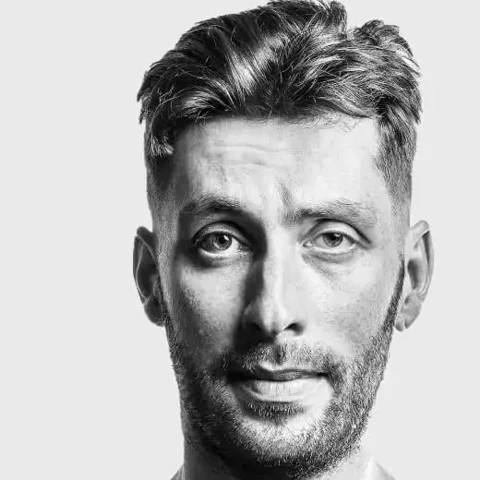
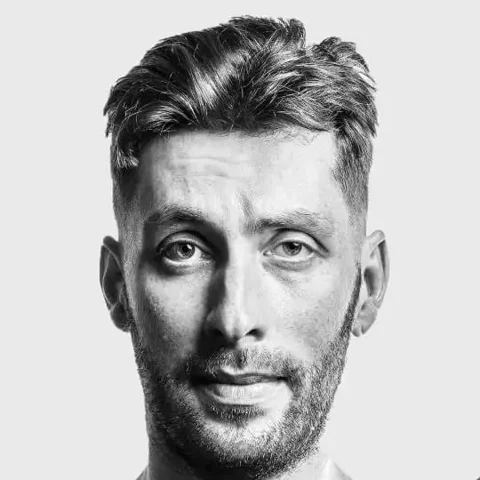
Страна Света: три ролика 16:9 справа от задачи, серая плашка с роликом об Устье, портрет по центру, правки текста

diff --git a/works/strana-sveta/index.html b/works/strana-sveta/index.html
@@ -23,7 +23,7 @@
   <meta property="og:image:alt" content="Фасад со словом «Устье» в стиле глиняной игрушки">
   <meta name="twitter:card" content="summary_large_image">
   <link rel="stylesheet" href="../../fresh/fresh.css?v=1120e">
-  <link rel="stylesheet" href="../../fresh/v2.css?v=102">
+  <link rel="stylesheet" href="../../fresh/v2.css?v=105">
   <link rel="stylesheet" href="../../fresh/case.css?v=1120e">
   <script>
     document.documentElement.classList.add('js');
@@ -72,7 +72,7 @@
       <aside class="case-aside" style="--rows: 9">
         <div class="case-aside__in">
           <h2 class="case-label case-aside__label">О&nbsp;проекте</h2>
-          <p class="case-aside__meta"><span>Мы&nbsp;заняли третье место</span><span>Конкурс современного медиаискусства «Страна Света» при&nbsp;поддержке ПФКИ проходил на&nbsp;Дворцовой площади в&nbsp;Санкт-Петербурге в&nbsp;декабре 2025&nbsp;года</span><span>Дом шириной больше ста метров</span></p>
+          <p class="case-aside__meta"><span>Конкурс современного медиаискусства «Страна Света» при&nbsp;поддержке ПФКИ проходил на&nbsp;Дворцовой площади в&nbsp;Санкт-Петербурге в&nbsp;декабре 2025&nbsp;года</span><span>Мы&nbsp;заняли третье место</span></p>
           <h2 class="case-label case-aside__label">Что сделали</h2>
           <ul class="case-aside__done">
             <li>Сценарий</li>
@@ -93,16 +93,32 @@
         <p>Рассказ из&nbsp;пяти частей о&nbsp;легендах Устья, стилизованный под&nbsp;вологодскую глиняную игрушку. Кадры и&nbsp;анимацию делали с&nbsp;нейросетями, а&nbsp;собирали и&nbsp;доводили вручную.</p>
       </div>
 
-      <figure class="case-review reveal">
-        <button class="case-review__btn" type="button" data-video="../../Video/strana-sveta-making.mp4" data-title="Как мы делали мэппинг «Устьянские легенды»" aria-label="Смотреть, как делали, 7:10">
-          <img src="media/making-cover.webp" alt="" width="1080" height="360" loading="lazy">
-          <span class="case-review__play" aria-hidden="true"><svg viewBox="0 0 16 16"><path d="M5 2.5 13.5 8 5 13.5z"/></svg></span>
-        </button>
-        <figcaption class="case-review__cap">Как делали&nbsp;· 7:10</figcaption>
-      </figure>
+      <div class="case-review case-reviews reveal">
+        <figure class="case-reviews__item">
+          <button class="case-review__btn" type="button" data-video="../../Video/strana-sveta-making.mp4" data-title="Как мы делали мэппинг «Устьянские легенды»" aria-label="Как делали, 7:10">
+            <img src="media/cover-making.webp" alt="" width="1280" height="720" loading="lazy">
+            <span class="case-review__play" aria-hidden="true"><svg viewBox="0 0 16 16"><path d="M5 2.5 13.5 8 5 13.5z"/></svg></span>
+          </button>
+          <figcaption class="case-review__cap">Как делали&nbsp;· 7:10</figcaption>
+        </figure>
+        <figure class="case-reviews__item">
+          <button class="case-review__btn" type="button" data-video="../../Video/strana-sveta-artyom.mp4" data-title="Артем Петрович о проекте «Устьянские легенды»" aria-label="Артем о проекте, 1:12">
+            <img src="media/cover-artyom.webp" alt="" width="1280" height="720" loading="lazy">
+            <span class="case-review__play" aria-hidden="true"><svg viewBox="0 0 16 16"><path d="M5 2.5 13.5 8 5 13.5z"/></svg></span>
+          </button>
+          <figcaption class="case-review__cap">Артем о проекте&nbsp;· 1:12</figcaption>
+        </figure>
+        <figure class="case-reviews__item">
+          <button class="case-review__btn" type="button" data-video="../../Video/strana-sveta-arseny.mp4" data-title="Арсений Петрович о проекте «Устьянские легенды»" aria-label="Арсений о проекте, 0:30">
+            <img src="media/cover-arseny.webp" alt="" width="1280" height="720" loading="lazy">
+            <span class="case-review__play" aria-hidden="true"><svg viewBox="0 0 16 16"><path d="M5 2.5 13.5 8 5 13.5z"/></svg></span>
+          </button>
+          <figcaption class="case-review__cap">Арсений о проекте&nbsp;· 0:30</figcaption>
+        </figure>
+      </div>
 
       <p class="case-main case-lead reveal">Почему Устье</p>
-      <p class="case-main case-p reveal">Летом Артем почти месяц жил&nbsp;в&nbsp;Устье у&nbsp;друга: ходили под&nbsp;парусом по&nbsp;Кубенскому озеру, ездили по&nbsp;заброшенным деревням. Прямо оттуда написал организаторам и&nbsp;попросил поменять тему мэппинга с&nbsp;Белого моря на&nbsp;Устье. Перед отъездом зашел в&nbsp;местную библиотеку, там&nbsp;посоветовали книги про&nbsp;село. Из&nbsp;них&nbsp;и&nbsp;собрали сценарий.</p>
+      <p class="case-main case-p reveal">Сначала мы&nbsp;заявили на&nbsp;конкурс мэппинг про&nbsp;Белое море. Но&nbsp;летом Артем почти месяц жил&nbsp;в&nbsp;Устье у&nbsp;друга: ходили под&nbsp;парусом по&nbsp;Кубенскому озеру, ездили по&nbsp;заброшенным деревням. Прямо оттуда написал организаторам и&nbsp;попросил поменять тему на&nbsp;Устье. Перед отъездом зашел в&nbsp;местную библиотеку, там&nbsp;посоветовали книги про&nbsp;село. Из&nbsp;них&nbsp;и&nbsp;собрали сценарий.</p>
       <figure class="case-wide reveal">
         <img src="media/mk-air.webp" alt="Устье с высоты: храм на берегу Кубенского озера" width="1920" height="1000" loading="lazy">
       </figure>
@@ -128,12 +144,11 @@
         <img src="media/mk-keyframes.webp" alt="Ключевые кадры желтого фасада по порядку" width="1076" height="756" loading="lazy">
       </figure>
       <figure class="case-pair-block reveal">
-        <h2 class="case-label">Ролик для&nbsp;конкурса</h2>
         <div class="case-pair">
           <video src="media/ustye-vertical.mp4" poster="media/ustye-vertical.webp" autoplay muted loop playsinline preload="none" aria-label="Ролик про Устье: стела, дом Никуличева, набережная Кубенского озера"></video>
           <img src="media/mk-bike.webp" alt="Кадр из ролика: улица в Устье, велосипедист на пенни-фартинге" width="1920" height="1080" loading="lazy">
         </div>
-        <figcaption class="case-pair__cap">По&nbsp;правилам конкурса к&nbsp;мэппингу нужен ролик о&nbsp;месте или о&nbsp;том, как&nbsp;мы&nbsp;работаем. Мы&nbsp;сняли ролик об&nbsp;Устье: слева он целиком, справа кадр из&nbsp;него.</figcaption>
+        <figcaption class="case-pair__cap">Ролик об&nbsp;Устье. По&nbsp;правилам конкурса нужно было снять ролик о&nbsp;месте, про&nbsp;которое мы&nbsp;делаем мэппинг</figcaption>
       </figure>
       <p class="case-main case-lead reveal">Сборка</p>
       <p class="case-main case-p reveal">Сложный технический моушн нейросети осенью 2025 года не&nbsp;умели. Но&nbsp;в&nbsp;мэппинге камера неподвижна, поэтому ролик можно склеить из&nbsp;разных генераций и&nbsp;подобрать порядок и&nbsp;тайминги. Все&nbsp;собирали в&nbsp;After Effects: маски, ротобраш, несколько дней работы на&nbsp;каждые 20 секунд. Потом апскейл в&nbsp;Topaz и&nbsp;перевод в&nbsp;финальный формат.</p>
@@ -154,7 +169,6 @@
       <figure class="case-wide reveal">
         <img src="media/mk-tv.webp" alt="Артем и Арсений Пе́тровичи в сюжете Первого канала на Дворцовой площади" width="1920" height="1080" loading="lazy">
       </figure>
-      <div class="case-main case-buttons reveal"><button class="card__review reveal" type="button" data-video="../../Video/strana-sveta-making.mp4" data-title="Как мы делали мэппинг «Устьянские легенды»"><i class="card__play" aria-hidden="true"><svg viewBox="0 0 16 16"><path d="M5 2.5 13.5 8 5 13.5z"/></svg></i><span>Как делали&nbsp;· 7:10</span></button><button class="card__review reveal" type="button" data-video="../../Video/strana-sveta-artyom.mp4" data-title="Артем Петрович о проекте «Устьянские легенды»"><i class="card__play" aria-hidden="true"><svg viewBox="0 0 16 16"><path d="M5 2.5 13.5 8 5 13.5z"/></svg></i><span>Артем о проекте&nbsp;· 1:12</span></button><button class="card__review reveal" type="button" data-video="../../Video/strana-sveta-arseny.mp4" data-title="Арсений Петрович о проекте «Устьянские легенды»"><i class="card__play" aria-hidden="true"><svg viewBox="0 0 16 16"><path d="M5 2.5 13.5 8 5 13.5z"/></svg></i><span>Арсений о проекте&nbsp;· 0:30</span></button></div>
     </div>
 
     <section class="case-offer">

diff --git a/fresh/v2.css b/fresh/v2.css
@@ -593,10 +593,24 @@ a.card__media { display: block; }
 .case-pair video, .case-pair img { display: block; width: 100%; height: 100%; aspect-ratio: 9 / 16; object-fit: cover; border-radius: var(--radius); background: var(--line); }
 .case-pair img { aspect-ratio: auto; }
 /* Кейс: отдельный блок с подписью (ролик для конкурса): рамка, заголовок, пара, подпись */
-.case-grid .case-pair-block { grid-column: 4 / 13; margin: 0; padding: 24px; border: 1px solid var(--line); border-radius: var(--radius); }
+.case-grid .case-pair-block { grid-column: 4 / 13; margin: 0; padding: 24px; border-radius: var(--radius); background: rgba(127, 127, 127, .1); }
 .case-pair-block .case-label { margin: 0 0 16px; }
 .case-pair-block .case-pair { grid-column: auto; }
 .case-pair__cap { margin: 16px 0 0; max-width: 46em; font-size: 15px; line-height: 1.45; opacity: .75; }
+/* Кейс: несколько роликов столбиком справа от задачи (как делали, интервью); на телефоне интервью парой */
+.case-reviews { display: flex; flex-direction: column; gap: 24px; }
+.case-grid .case-reviews { grid-row: 1 / span 3; } /* столбик длиннее задачи: рядом встают и «Почему Устье» с абзацем */
+@media (max-width: 900px) { .case-grid .case-reviews { grid-row: auto; } }
+.case-reviews__item { margin: 0; }
+.case-reviews .case-review__play { width: 52px; height: 52px; top: auto; left: auto; right: 12px; bottom: 12px; transform: none; } /* кнопка в углу, лицо видно */
+.case-reviews .case-review__btn:hover .case-review__play { transform: scale(1.12); }
+@media (max-width: 600px) {
+  .case-reviews { display: grid; grid-template-columns: 1fr 1fr; gap: 20px 12px; }
+  .case-reviews__item:first-child { grid-column: 1 / -1; }
+  .case-reviews__item:not(:first-child) .case-review__btn { width: 100%; margin-inline: 0; border-radius: var(--radius); }
+  .case-reviews__item:not(:first-child) .case-review__cap { font-size: 14px; }
+}
+
 /* Кейс: ряд кнопок с видео (как делали, интервью) */
 .case-grid .case-buttons { grid-column: 4 / 13; display: flex; flex-wrap: wrap; gap: 14px 40px; }
 .case-buttons .card__review { margin-top: 0; }

diff --git a/works/khakasia/stol/index.html b/works/khakasia/stol/index.html
@@ -30,7 +30,7 @@
   <meta name="twitter:card" content="summary_large_image">
   <link rel="preload" as="image" href="../../../cases/khakasia/media/interaktivnyj-stol-khakasiya.webp" imagesrcset="../../../cases/khakasia/media/interaktivnyj-stol-khakasiya-960.webp 960w, ../../../cases/khakasia/media/interaktivnyj-stol-khakasiya.webp 1920w" imagesizes="100vw">
   <link rel="stylesheet" href="../../../fresh/fresh.css?v=1120e">
-  <link rel="stylesheet" href="../../../fresh/v2.css?v=102">
+  <link rel="stylesheet" href="../../../fresh/v2.css?v=105">
   <link rel="stylesheet" href="../../../fresh/case.css?v=1120e">
   <script>
     document.documentElement.classList.add('js');

diff --git a/cases/gorodobrazovaniya/index.html b/cases/gorodobrazovaniya/index.html
@@ -23,7 +23,7 @@
   <meta property="og:image:alt" content="Видео и интерактивное расписание для форума «Город образования» — изображение проекта">
   <meta name="twitter:card" content="summary_large_image">
   <link rel="stylesheet" href="../../fresh/fresh.css?v=1120e">
-  <link rel="stylesheet" href="../../fresh/v2.css?v=102">
+  <link rel="stylesheet" href="../../fresh/v2.css?v=105">
   <link rel="stylesheet" href="../../fresh/case.css?v=1120e">
   <script>
     document.documentElement.classList.add('js');

diff --git a/cases/rosatom/index.html b/cases/rosatom/index.html
@@ -23,7 +23,7 @@
   <meta property="og:image:alt" content="Анимационный ролик для конкурса «Миллион Росатома» — изображение проекта">
   <meta name="twitter:card" content="summary_large_image">
   <link rel="stylesheet" href="../../fresh/fresh.css?v=1120e">
-  <link rel="stylesheet" href="../../fresh/v2.css?v=102">
+  <link rel="stylesheet" href="../../fresh/v2.css?v=105">
   <link rel="stylesheet" href="../../fresh/case.css?v=1120e">
   <script>
     document.documentElement.classList.add('js');

diff --git a/cases/yantarny/index.html b/cases/yantarny/index.html
@@ -23,7 +23,7 @@
   <meta property="og:image:alt" content="Видео для комнаты виртуальной реальности на AmberForum — изображение проекта">
   <meta name="twitter:card" content="summary_large_image">
   <link rel="stylesheet" href="../../fresh/fresh.css?v=1120e">
-  <link rel="stylesheet" href="../../fresh/v2.css?v=102">
+  <link rel="stylesheet" href="../../fresh/v2.css?v=105">
   <link rel="stylesheet" href="../../fresh/case.css?v=1120e">
   <script>
     document.documentElement.classList.add('js');

diff --git a/cases/premiarb/index.html b/cases/premiarb/index.html
@@ -23,7 +23,7 @@
   <meta property="og:image:alt" content="Графика для трех экранов на церемонии Премии РБ — изображение проекта">
   <meta name="twitter:card" content="summary_large_image">
   <link rel="stylesheet" href="../../fresh/fresh.css?v=1120e">
-  <link rel="stylesheet" href="../../fresh/v2.css?v=102">
+  <link rel="stylesheet" href="../../fresh/v2.css?v=105">
   <link rel="stylesheet" href="../../fresh/case.css?v=1120e">
   <script>
     document.documentElement.classList.add('js');

diff --git a/cases/hbo/index.html b/cases/hbo/index.html
@@ -23,7 +23,7 @@
   <meta property="og:image:alt" content="3D-заставка к сериалу «Игры Уолл-стрит» на HBO Max — изображение проекта">
   <meta name="twitter:card" content="summary_large_image">
   <link rel="stylesheet" href="../../fresh/fresh.css?v=1120e">
-  <link rel="stylesheet" href="../../fresh/v2.css?v=102">
+  <link rel="stylesheet" href="../../fresh/v2.css?v=105">
   <link rel="stylesheet" href="../../fresh/case.css?v=1120e">
   <script>
     document.documentElement.classList.add('js');

diff --git a/cases/referus/index.html b/cases/referus/index.html
@@ -23,7 +23,7 @@
   <meta property="og:image:alt" content="Игра для стенда «Арнест-Юнирус» на Иннопроме — изображение проекта">
   <meta name="twitter:card" content="summary_large_image">
   <link rel="stylesheet" href="../../fresh/fresh.css?v=1120e">
-  <link rel="stylesheet" href="../../fresh/v2.css?v=102">
+  <link rel="stylesheet" href="../../fresh/v2.css?v=105">
   <link rel="stylesheet" href="../../fresh/case.css?v=1120e">
   <script>
     document.documentElement.classList.add('js');

diff --git a/cases/carrera/index.html b/cases/carrera/index.html
@@ -23,7 +23,7 @@
   <meta property="og:image:alt" content="Концепция линии украшений Aqua для Carrera y Carrera — изображение проекта">
   <meta name="twitter:card" content="summary_large_image">
   <link rel="stylesheet" href="../../fresh/fresh.css?v=1120e">
-  <link rel="stylesheet" href="../../fresh/v2.css?v=102">
+  <link rel="stylesheet" href="../../fresh/v2.css?v=105">
   <link rel="stylesheet" href="../../fresh/case.css?v=1120e">
   <script>
     document.documentElement.classList.add('js');

diff --git a/cases/donstroy/index.html b/cases/donstroy/index.html
@@ -23,7 +23,7 @@
   <meta property="og:image:alt" content="Интерфейс тачскрина для стенда «Донстроя» — изображение проекта">
   <meta name="twitter:card" content="summary_large_image">
   <link rel="stylesheet" href="../../fresh/fresh.css?v=1120e">
-  <link rel="stylesheet" href="../../fresh/v2.css?v=102">
+  <link rel="stylesheet" href="../../fresh/v2.css?v=105">
   <link rel="stylesheet" href="../../fresh/case.css?v=1120e">
   <script>
     document.documentElement.classList.add('js');

diff --git a/cases/rosnano/index.html b/cases/rosnano/index.html
@@ -23,7 +23,7 @@
   <meta property="og:image:alt" content="3D-ролики и тачскрин для стенда «Роснано» — изображение проекта">
   <meta name="twitter:card" content="summary_large_image">
   <link rel="stylesheet" href="../../fresh/fresh.css?v=1120e">
-  <link rel="stylesheet" href="../../fresh/v2.css?v=102">
+  <link rel="stylesheet" href="../../fresh/v2.css?v=105">
   <link rel="stylesheet" href="../../fresh/case.css?v=1120e">
   <script>
     document.documentElement.classList.add('js');
